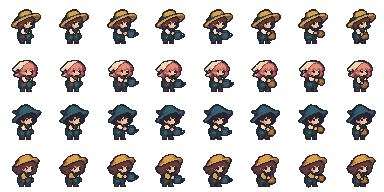
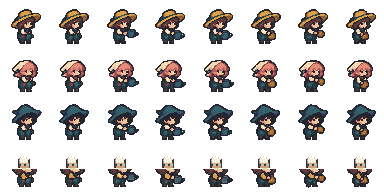
feat: pin plant info and create local photo palette gardeners

diff --git a/web/pet.html b/web/pet.html
@@ -1,4 +1,4 @@
 <!doctype html><html lang="zh-CN"><head><meta charset="UTF-8"><meta http-equiv="Content-Security-Policy" content="default-src 'self'; img-src 'self' data:; script-src 'self'; style-src 'self'"><meta name="viewport" content="width=device-width,initial-scale=1"><title>青云桌面菜园</title><link rel="stylesheet" href="pet.css"><link rel="stylesheet" href="art-v04.css"><link rel="stylesheet" href="pixel-v04.css"></head><body>
-<section id="welcome" hidden data-hit><h2 id="welcome-title">欢迎来到我的菜园</h2><p>把对话变成一片小菜地。</p><p>菜园会读取这台电脑上的 Codex 对话状态和名称。内容留在本机，不上传；收藏也只保存在你的电脑上。</p><p>拖动太阳移动菜园，单击地面走动。双击成熟植物收获并查看对话，悬停可以浇水、施肥。</p><button id="begin">开始种菜</button></section><section id="panel" hidden data-hit><header><canvas id="app-mark" width="24" height="24"></canvas><button id="back" hidden>‹ 返回</button><strong id="panel-title">我的菜园</strong><button id="rename-garden" title="修改菜园名称">改名</button><button id="close" aria-label="收起面板">×</button></header><form id="name-editor" hidden data-hit><label for="garden-name-input">菜园名称</label><input id="garden-name-input" maxlength="48" autocomplete="off" placeholder="我的菜园"><button type="submit">保存</button><button type="button" id="cancel-name">取消</button><small>最多24个字，留空恢复默认名称。</small></form><div id="list-view"><p id="sync" hidden>正在读取本地对话…</p><p id="attention-legend" hidden>蓝点：未读　无点：已读　空心：待确认</p><div id="threads"></div></div><div id="detail-view" hidden><small id="status"></small><h2 id="title"></h2><p id="project" hidden></p><pre id="summary" hidden></pre><div class="actions"><button id="open-thread">查看对话</button><button id="harvest" class="primary">收下这一茬</button></div></div><div id="storage-view" hidden><p id="storage-caption"></p><div id="storage-items"></div></div><div id="settings"><span>园丁</span><div id="heroes"></div><button id="demo" hidden>演示</button><button id="pass" hidden title="全部鼠标穿透；从托盘菜单恢复交互">穿透</button></div><p id="error" role="status"></p></section>
+<section id="welcome" hidden data-hit><h2 id="welcome-title">欢迎来到我的菜园</h2><p>把对话变成一片小菜地。</p><p>菜园会读取这台电脑上的 Codex 对话状态和名称。内容留在本机，不上传；收藏也只保存在你的电脑上。</p><p>拖动太阳移动菜园，单击地面走动。双击成熟植物收获并查看对话，悬停可以浇水、施肥。</p><button id="begin">开始种菜</button></section><section id="panel" hidden data-hit><header><canvas id="app-mark" width="24" height="24"></canvas><button id="back" hidden>‹ 返回</button><strong id="panel-title">我的菜园</strong><button id="rename-garden" title="修改菜园名称">改名</button><button id="close" aria-label="收起面板">×</button></header><form id="name-editor" hidden data-hit><label for="garden-name-input">菜园名称</label><input id="garden-name-input" maxlength="48" autocomplete="off" placeholder="我的菜园"><button type="submit">保存</button><button type="button" id="cancel-name">取消</button><small>最多24个字，留空恢复默认名称。</small></form><div id="list-view"><p id="sync" hidden>正在读取本地对话…</p><p id="attention-legend" hidden>蓝点：未读　无点：已读　空心：待确认</p><div id="threads"></div></div><div id="detail-view" hidden><small id="status"></small><h2 id="title"></h2><p id="project" hidden></p><pre id="summary" hidden></pre><div class="actions"><button id="open-thread">查看对话</button><button id="harvest" class="primary">收下这一茬</button></div></div><div id="storage-view" hidden><p id="storage-caption"></p><div id="storage-items"></div></div><div id="settings"><span>园丁</span><div id="heroes"></div><button id="photo-gardener" title="从照片配色生成园丁，仅在本机处理">照片园丁</button><input id="gardener-photo-file" type="file" accept="image/png,image/jpeg,image/webp" hidden><button id="demo" hidden>演示</button><button id="pass" hidden title="全部鼠标穿透；从托盘菜单恢复交互">穿透</button></div><p id="error" role="status"></p></section>
 <section id="pet"><div id="sun-anchor" data-hit title="按住太阳拖动整个菜园" aria-label="拖动菜园的像素太阳"><canvas id="sun" width="32" height="32"></canvas></div><canvas id="garden" width="210" height="75" aria-label="透明桌面园丁与菜田"></canvas><canvas id="plant-fx" width="420" height="150" aria-hidden="true"></canvas><div id="hero-drag" title="拖动园丁移动桌宠"></div><div id="drag" data-hit title="按住这里拖动桌宠"><canvas id="drag-mark" width="24" height="24"></canvas></div><button id="storage" data-hit title="储物收藏" aria-label="打开储物收藏"><canvas id="chest" width="28" height="28"></canvas></button><div id="capsule" data-hit><canvas id="mini-mark" width="24" height="24" title="按住拖动整个桌面菜园"></canvas><button id="overview" title="查看全部对话"><span id="growing" hidden>0</span>公告 <b id="ripe">0</b></button><button id="prev" aria-label="向左查看连续菜地">‹</button><span id="page">1/1</span><button id="next" aria-label="向右查看连续菜地">›</button><button id="menu" title="打开对话与设置">⋯</button></div><div id="plant-info" hidden data-hit><strong id="info-title"></strong><div id="info-row"><small id="info-status"></small></div></div><div id="care-tools" hidden data-hit aria-label="照料植物"><button id="water" title="浇水"><span aria-hidden="true">◒</span> 浇水</button><button id="feed" title="施肥"><span aria-hidden="true">▣</span> 施肥</button></div><div id="hint" hidden></div><div id="toast" hidden role="status"></div></section>
-<script src="model.js"></script><script src="pet.js"></script></body></html>
+<script src="model.js"></script><script src="photo-gardener.js"></script><script src="pet.js"></script></body></html>

diff --git a/release/site/privacy.html b/release/site/privacy.html
@@ -1,2 +1,2 @@
-<!doctype html><html lang="zh-CN"><meta charset="utf-8"><meta name="viewport" content="width=device-width,initial-scale=1"><title>隐私说明 · 青云桌面菜园</title><style>body{margin:0;background:#25252f;color:#f6eac3;font:17px/1.8 system-ui,sans-serif}main{max-width:840px;margin:auto;padding:64px 24px}nav a{margin-right:24px}a{color:#bdd078}h1{font-size:42px;line-height:1.25}h2{color:#f5c86c}figure{background:#36343a;padding:24px;border:2px solid #706c55;margin:32px 0}img{max-width:100%;image-rendering:pixelated}footer{margin-top:64px;color:#c3ba8b;border-top:2px solid #706c55;padding-top:20px}.tag{color:#bdd078}</style><main><nav><a href="index.html">菜园</a><a href="privacy.html">隐私</a><a href="terms.html">使用条款</a><a href="support.html">帮助</a></nav><h1>你的数据如何使用</h1><p>首次启动会显示说明，点击“开始种菜”后才读取 Codex 对话数据。</p><p>菜园读取本机 Codex 的对话名称、状态、未读标记和本地对话日志，用来呈现植物。当前显示最多24个对话。多身份阅读记录不一致时不会猜测是否未读。菜园不会读取登录凭据，不修改 Codex 数据库，也不上传对话或收藏。点击“查看对话”会交给已安装的 Codex 打开。</p><p>收藏保存在用户目录的 `.codex-garden` 中。每次保存都有恢复副本和最多三份历史备份；无法读取的原文件会保留。托盘菜单可以导出收藏或打开收藏文件夹。导出的备份含对话标识与收获记录，请不要公开分享。</p><p>植物选择、人物选择、首次使用确认和窗口位置保存在本机应用设置中。卸载应用默认保留收藏和设置；如要彻底删除，可退出菜园后手动删除 `.codex-garden` 和 `%APPDATA%\codex-garden-pet-v06`。</p><p>当前内测版没有遥测、广告、云同步或自动下载更新。安装包和升级校验只在本地执行。</p><p>发布者：risu1。插件以本地 stdio 工具运行，不监听网络端口。状态与收藏工具在首次确认前不会读取数据，确认后也只向 Codex 返回状态数量与植物品种数量，不返回对话标题、正文、路径或标识。桌面窗口本身会显示对话名称。
+<!doctype html><html lang="zh-CN"><meta charset="utf-8"><meta name="viewport" content="width=device-width,initial-scale=1"><title>隐私说明 · 青云桌面菜园</title><style>body{margin:0;background:#25252f;color:#f6eac3;font:17px/1.8 system-ui,sans-serif}main{max-width:840px;margin:auto;padding:64px 24px}nav a{margin-right:24px}a{color:#bdd078}h1{font-size:42px;line-height:1.25}h2{color:#f5c86c}figure{background:#36343a;padding:24px;border:2px solid #706c55;margin:32px 0}img{max-width:100%;image-rendering:pixelated}footer{margin-top:64px;color:#c3ba8b;border-top:2px solid #706c55;padding-top:20px}.tag{color:#bdd078}</style><main><nav><a href="index.html">菜园</a><a href="privacy.html">隐私</a><a href="terms.html">使用条款</a><a href="support.html">帮助</a></nav><h1>你的数据如何使用</h1><p>首次启动会显示说明，点击“开始种菜”后才读取 Codex 对话数据。</p><p>菜园读取本机 Codex 的对话名称、状态、未读标记和本地对话日志，用来呈现植物。当前显示最多24个对话。多身份阅读记录不一致时不会猜测是否未读。菜园不会读取登录凭据，不修改 Codex 数据库，也不上传对话或收藏。点击“查看对话”会交给已安装的 Codex 打开。</p><p>收藏保存在用户目录的 `.codex-garden` 中。每次保存都有恢复副本和最多三份历史备份；无法读取的原文件会保留。托盘菜单可以导出收藏或打开收藏文件夹。导出的备份含对话标识与收获记录，请不要公开分享。</p><p>植物选择、人物选择、首次使用确认和窗口位置保存在本机应用设置中。卸载应用默认保留收藏和设置；如要彻底删除，可退出菜园后手动删除 `.codex-garden` 和 `%APPDATA%\codex-garden-pet-v06`。</p><p>当前内测版没有遥测、广告、云同步或自动下载更新。安装包和升级校验只在本地执行。</p><p>发布者：risu1。插件以本地 stdio 工具运行，不监听网络端口。状态与收藏工具在首次确认前不会读取数据，确认后也只向 Codex 返回状态数量与植物品种数量，不返回对话标题、正文、路径或标识。桌面窗口本身会显示对话名称。</p><p>照片园丁：所选照片仅在本机内存中解码和提取配色，不上传、不复制原照片；仅配色参数与选择状态保存在本机应用设置中，可右键照片园丁头像移除。
 </p><footer>青云桌面菜园 · risu1</footer></main></html>

diff --git a/web/photo-gardener.js b/web/photo-gardener.js
@@ -1,0 +1,23 @@
+/* Local photo palette extraction. No network calls or retained source photo. */
+(()=>{
+ let allowed=[];
+ const canvas=(w,h)=>Object.assign(document.createElement('canvas'),{width:w,height:h});
+ function colors(image){
+  const c=canvas(32,32),x=c.getContext('2d');x.drawImage(image,0,0,32,32);const p=x.getImageData(0,0,32,32).data;
+  function sample(x0,y0,x1,y1,fallback){const bins=new Map();for(let y=y0;y<y1;y++)for(let x=x0;x<x1;x++){const i=(y*32+x)*4;if(p[i+3]<128)continue;const v=[p[i],p[i+1],p[i+2]].map(n=>Math.round(n/32)*32).map(n=>Math.min(255,n));const key=v.join(',');bins.set(key,(bins.get(key)||0)+1);}return bins.size?[...bins].sort((a,b)=>b[1]-a[1])[0][0].split(',').map(Number):fallback;}
+  return {hair:sample(10,3,22,10,[75,57,54]),skin:sample(12,11,20,18,[217,157,115]),coat:sample(8,21,24,30,[77,115,135])};
+ }
+ const near=(a,b)=>Math.hypot(...a.map((v,i)=>v-b[i]))<32;
+ function paint(source,palette,portrait=false){
+  const c=canvas(portrait?32:384,portrait?32:48),x=c.getContext('2d');x.imageSmoothingEnabled=false;
+  if(portrait)x.drawImage(source,0,0,32,32,0,0,32,32);else x.drawImage(source,0,0,384,48,0,0,384,48);
+  const im=x.getImageData(0,0,c.width,c.height),p=im.data;
+  for(let i=0;i<p.length;i+=4){if(!p[i+3])continue;const rgb=[p[i],p[i+1],p[i+2]];let target=null,shade=1;
+   if(near(rgb,[217,157,115])||near(rgb,[240,194,149])||near(rgb,[245,215,173])){target=palette.skin;shade=(rgb[0]+rgb[1]+rgb[2])/560;}
+   else if(near(rgb,[77,115,135])||near(rgb,[55,83,106])||near(rgb,[38,55,75])){target=palette.coat;shade=(rgb[0]+rgb[1]+rgb[2])/327;}
+   else if(near(rgb,[155,108,71])||near(rgb,[187,142,92])||near(rgb,[181,123,53])||near(rgb,[220,160,74])){target=palette.hair;shade=(rgb[0]+rgb[1]+rgb[2])/390;}
+   if(target){let out=target.map(v=>Math.max(0,Math.min(255,Math.round(v*shade))));if(allowed.length)out=allowed.reduce((best,c)=>c.reduce((n,v,k)=>n+(v-out[k])**2,0)<best.reduce((n,v,k)=>n+(v-out[k])**2,0)?c:best);for(let k=0;k<3;k++)p[i+k]=out[k];}p[i+3]=255;
+  }x.putImageData(im,0,0);return c;
+ }
+ window.PhotoGardener={colors,paint,setPalette:hex=>{allowed=hex.map(s=>s.replace('#','')).map(s=>[0,2,4].map(i=>parseInt(s.slice(i,i+2),16)));},valid:p=>p&&['skin','hair','coat'].every(k=>Array.isArray(p[k])&&p[k].length===3&&p[k].every(v=>Number.isFinite(v)&&v>=0&&v<=255))};
+})();

diff --git a/tools/redesign_fourth_gardener.py b/tools/redesign_fourth_gardener.py
@@ -1,0 +1,42 @@
+"""Replace the fourth gardener's hat silhouette with white hair and goggles.
+Edits existing pixel atlases only, preserving action registration and watercan.
+"""
+from pathlib import Path
+import json,hashlib,subprocess,io
+from PIL import Image,ImageDraw
+ROOT=Path(__file__).resolve().parents[1]
+def head(cell):
+    box=cell.getbbox()
+    if not box:return cell
+    x0,y0,x1,y1=box
+    # The head is replaced above the torso; hands/tools and feet remain registered.
+    d=ImageDraw.Draw(cell);d.rectangle((x0,y0,x1-1,y0+14),fill=(0,0,0,0))
+    cx=24
+    d.rectangle((cx-6,y0+5,cx+5,y0+13),fill='#36343a')
+    d.rectangle((cx-5,y0+4,cx+3,y0+9),fill='#90879d')
+    d.rectangle((cx-4,y0+4,cx+3,y0+8),fill='#f7f1dc')
+    for x,y in [(-4,3),(-1,2),(2,3),(-5,6),(4,5)]:d.point((cx+x,y0+y),fill='#e3d5a9')
+    d.rectangle((cx-4,y0+9,cx+4,y0+13),fill='#d99d73')
+    d.rectangle((cx-5,y0+10,cx+5,y0+11),fill='#36343a')
+    d.rectangle((cx-3,y0+10,cx-1,y0+11),fill='#b0c9c7');d.rectangle((cx+2,y0+10,cx+4,y0+11),fill='#b0c9c7')
+    d.rectangle((cx-2,y0+14,cx+2,y0+15),fill='#e3d5a9')
+    return cell
+def recolor(cell):
+    colors={'37536a':'686575','4d7387':'90879d','26374b':'36343a','35553b':'6b393d','4c6f3e':'93464a','6a8b48':'ae7683'}
+    p=cell.load()
+    for y in range(cell.height):
+        for x in range(cell.width):
+            r,g,b,a=p[x,y];key=f'{r:02x}{g:02x}{b:02x}'
+            if a and key in colors:p[x,y]=(*bytes.fromhex(colors[key]),a)
+    return cell
+def main():
+    path=ROOT/'assets/pixel-v091/actions.png';im=Image.open(io.BytesIO(subprocess.check_output(['git','show','ec0ab98:assets/pixel-v091/actions.png'],cwd=ROOT))).convert('RGBA')
+    for col in range(8):
+        cell=im.crop((col*48,144,col*48+48,192));im.paste(head(recolor(cell)),(col*48,144))
+    im.save(path)
+    mpath=path.with_name('manifest.json');m=json.loads(mpath.read_text());m['sha256']=hashlib.sha256(path.read_bytes()).hexdigest();m['fourthGardener']='white hair, goggles, plum workwear; existing action alignment preserved';mpath.write_text(json.dumps(m,ensure_ascii=False,indent=2),encoding='utf-8')
+    mpath=ROOT/'assets/pixel-v04/manifest.json';m=json.loads(mpath.read_text(encoding='utf-8'));m['heroes'][3]['name']='白发工匠';mpath.write_text(json.dumps(m,ensure_ascii=False,indent=2),encoding='utf-8')
+    portraits=Image.open(ROOT/'assets/pixel-v04/portraits.png').convert('RGBA');frame=im.crop((96,144,144,192));frame=frame.resize((32,32),Image.Resampling.NEAREST);portraits.paste(frame,(96,0));portraits.save(ROOT/'assets/pixel-v04/portraits.png')
+    m['sourceSha256']['portraits']=hashlib.sha256((ROOT/'assets/pixel-v04/portraits.png').read_bytes()).hexdigest()
+    mpath.write_text(json.dumps(m,ensure_ascii=False,indent=2),encoding='utf-8')
+if __name__=='__main__':main()

diff --git a/tools/release_gate.py b/tools/release_gate.py
@@ -39,7 +39,7 @@ audit=json.loads((ROOT/'verification/rc010-npm-audit.json').read_text(encoding='
 check('npmAudit',audit.get('metadata',{}).get('vulnerabilities',{}).get('total')==0,'当前依赖审计')
 audit=json.loads((ROOT/'verification/rc010-python-audit.json').read_text(encoding='utf-8'))
 check('pythonAudit',all(not d.get('vulns') for d in audit.get('dependencies',[])) and len(audit.get('dependencies',[]))==30,'固定的30项 MCP 依赖审计')
-for name in ('rc2-dpi-1-garden-qa','rc2-welcome-qa','install-'+VERSION+'-lifecycle','mcp-'+VERSION+'-qa','rc2-dpi-1.25-garden-qa','rc2-dpi-1.5-garden-qa','rc2-dpi-2-garden-qa'):
+for name in ('rc5-dpi-1-garden-qa','rc5-welcome-qa','install-'+VERSION+'-lifecycle','mcp-'+VERSION+'-qa','rc5-final-garden-qa','rc5-dpi-2-garden-qa'):
     path=ROOT/f'verification/{name}.json'
     check(name,path.is_file() and json.loads(path.read_text(encoding='utf-8-sig')).get('passed') is True,'本轮实际自动化报告')
 check('externalWindowsValidation',False,'待干净 Windows、多显示器、休眠恢复与长时间试用实测')

diff --git a/tools/package.py b/tools/package.py
@@ -22,7 +22,7 @@ def build():
     shutil.copytree(ROOT/'assets/pixel-v07',app/'assets/pixel-v07')
     shutil.copytree(ROOT/'assets/pixel-v091',app/'assets/pixel-v091')
     (app/'web').mkdir(exist_ok=True)
-    for name in ('pet.html','pet.js','pet.css','art-v04.css','pixel-v04.css','model.js'):
+    for name in ('pet.html','photo-gardener.js','pet.js','pet.css','art-v04.css','pixel-v04.css','model.js'):
         shutil.copy2(ROOT/'web'/name,app/'web'/name)
     for name in ('Install.ps1','Uninstall.ps1','Install.cmd'):
         shutil.copy2(ROOT/'tools'/name,staging/name)

diff --git a/README.md b/README.md
@@ -4,15 +4,15 @@
 
 透明的像素菜园静静待在桌面，不抢键盘输入。单击让园丁走近，双击回到对话；工作间隙，也可以浇水、施肥，照料自己的小菜地。
 
-[下载 Windows 候选版](https://github.com/l1jiewansui/codex-garden/releases/tag/v0.10.0-rc.3) · [安装部署手册](docs/INSTALL.md) · [使用指南](docs/USAGE.md) · [问题反馈](https://github.com/l1jiewansui/codex-garden/issues)
+[下载 Windows 候选版](https://github.com/l1jiewansui/codex-garden/releases/tag/v0.10.0-rc.5) · [安装部署手册](docs/INSTALL.md) · [使用指南](docs/USAGE.md) · [问题反馈](https://github.com/l1jiewansui/codex-garden/issues)
 
 ![桌面菜园：像素太阳、园丁、连续菜地、公告栏和收藏箱。演示数据，不含真实对话。](docs/screenshots/garden.png)
 
-> 截图使用演示数据。当前支持 **Windows x64 + Codex 桌面版**；下载包自带运行环境，无需安装 Python 或 Node.js。当前为 **0.10.0-rc.3 候选版**，尚未代码签名或通过公共插件目录审核。
+> 截图使用演示数据。当前支持 **Windows x64 + Codex 桌面版**；下载包自带运行环境，无需安装 Python 或 Node.js。当前为 **0.10.0-rc.5 候选版**，尚未代码签名或通过公共插件目录审核。
 
 ## 三步开始种菜
 
-1. **下载并解压**：在 [Release 页面](https://github.com/l1jiewansui/codex-garden/releases/tag/v0.10.0-rc.3) 下载 `codex-garden-0.10.0-rc.3-windows.zip`，右键选择“全部解压”，不要直接在压缩包里运行。
+1. **下载并解压**：在 [Release 页面](https://github.com/l1jiewansui/codex-garden/releases/tag/v0.10.0-rc.5) 下载 `codex-garden-0.10.0-rc.5-windows.zip`，右键选择“全部解压”，不要直接在压缩包里运行。
 2. **打开菜园**：进入解压后的文件夹，双击 `CodexGarden.exe`。想加入开始菜单，也可以双击 `Install.cmd`，无需管理员权限。
 3. **点击“开始种菜”**：阅读首次说明后确认。打开本机 Codex，稍等几秒，对话就会按置顶顺序出现在菜地上。
 
@@ -81,3 +81,11 @@ Star 数量每日更新，历史从 2026 年 10 月 15 日开始记录。
 ---
 
 [安装部署](docs/INSTALL.md) · [使用指南](docs/USAGE.md) · [隐私说明](PRIVACY.md) · [反馈问题](https://github.com/l1jiewansui/codex-garden/issues) · [开发者文档](docs/DEVELOPMENT.md)
+
+## 固定植物信息与照片园丁
+
+单击植物可固定信息卡，再点同一株关闭，点击其他植物切换。鼠标移开不会关闭固定的信息卡；双击仍然收获并打开对话。翻页或打开公告面板会收起信息卡。
+
+打开公告面板，点击 **照片园丁**，选择10MB以内的 PNG、JPEG 或 WebP 照片。照片在本机提取配色，生成像素园丁，支持行走、浇水和施肥。建议使用人物居中的正面半身照。此功能是照片配色定制，不是人脸还原或 AI 生图。
+
+原照片不会上传或保存到菜园目录，只保留配色参数。点击默认园丁可以切回；右键照片园丁头像可移除。第四位默认园丁已改为白发、护目镜和紫色工作服的工匠形象。

diff --git a/release/RELEASE-RUNBOOK.md b/release/RELEASE-RUNBOOK.md
@@ -1,6 +1,6 @@
 # 发布操作手册
 
-发布者为 risu1。当前版本 0.10.0-rc.3，目标平台 Windows x64。候选包可本地验证，公共发布必须通过全部门槛。
+发布者为 risu1。当前版本 0.10.0-rc.5，目标平台 Windows x64。候选包可本地验证，公共发布必须通过全部门槛。
 
 ## 可重复构建
 
@@ -21,12 +21,12 @@ python tools/release_metadata.py
 python tools/package.py
 python tools/prepare_listing_assets.py
 python tools/validate_plugin.py
-powershell -NoProfile -ExecutionPolicy Bypass -File tools/test_install.ps1 -PackagePath "$PWD/dist/desktop-pet-0.10.0-rc.3"
+powershell -NoProfile -ExecutionPolicy Bypass -File tools/test_install.ps1 -PackagePath "$PWD/dist/desktop-pet-0.10.0-rc.5"
 python tools/archive_release.py
 python tools/build_plugin.py
 ```
 
-验证 MCP 时将 .work/mcp-deps 加入 PYTHONPATH，运行 tools/test_mcp.py。验证桌面时运行 dist/desktop-pet-0.10.0-rc.3/CodexGarden.exe --qa；首次说明单独加 --qa-welcome。QA 写入包内 resources/app/verification，发布归档前重新打包。
+验证 MCP 时将 .work/mcp-deps 加入 PYTHONPATH，运行 tools/test_mcp.py。验证桌面时运行 dist/desktop-pet-0.10.0-rc.5/CodexGarden.exe --qa；首次说明单独加 --qa-welcome。QA 写入包内 resources/app/verification，发布归档前重新打包。
 
 完整插件内同时包含桌面程序与本地 MCP；不使用 lifecycle hooks。stdio 服务只暴露三个无参数工具。不得加入任意命令、任意路径读取、代收获或改写 Codex 的工具。
 

diff --git a/docs/INSTALL.md b/docs/INSTALL.md
@@ -12,12 +12,12 @@
 
 ## 选择下载内容
 
-打开 [0.10.0-rc.3 下载页面](https://github.com/l1jiewansui/codex-garden/releases/tag/v0.10.0-rc.3)，展开 **Assets**：
+打开 [0.10.0-rc.5 下载页面](https://github.com/l1jiewansui/codex-garden/releases/tag/v0.10.0-rc.5)，展开 **Assets**：
 
 | 文件 | 适合谁 |
 |---|---|
-| `codex-garden-0.10.0-rc.3-windows.zip` | 大多数用户：直接使用桌面菜园 |
-| `codex-garden-0.10.0-rc.3-plugin.zip` | 希望从 Codex 对话里调用菜园工具的用户，包含同一桌面程序 |
+| `codex-garden-0.10.0-rc.5-windows.zip` | 大多数用户：直接使用桌面菜园 |
+| `codex-garden-0.10.0-rc.5-plugin.zip` | 希望从 Codex 对话里调用菜园工具的用户，包含同一桌面程序 |
 | 同名 `.zip.sha256` | 对照下载文件的完整性 |
 | GitHub 自动生成的 Source code | 源代码，不是可以双击使用的安装包 |
 
@@ -93,7 +93,7 @@ codex plugin add qingyun-garden@risu1-local-plugins
 同时下载 ZIP 与同名 `.sha256` 文件。在 ZIP 所在文件夹打开 PowerShell：
 
 ```powershell
-Get-FileHash .\codex-garden-0.10.0-rc.3-windows.zip -Algorithm SHA256
+Get-FileHash .\codex-garden-0.10.0-rc.5-windows.zip -Algorithm SHA256
 ```
 
 将输出的哈希与 `.sha256` 文件中的哈希对照，应完全一致；大小写不影响比较。SHA256 用于核对文件完整性，不等同于发布者数字签名。

diff --git a/release/PLUGIN-INSTALL.md b/release/PLUGIN-INSTALL.md
@@ -4,7 +4,7 @@
 
 将整个插件目录放在固定位置，然后在支持本地插件的 Codex 开发环境中加载根目录的 plugin.json。不要只复制清单：app、server、skills 都是必要文件。不同 Codex 版本的本地插件入口可能不同，请遵循该版本的开发者说明。
 
-本开发工作区的 .agents/plugins/marketplace.json 已登记本地来源，名称“青云桌面菜园”，市场名称“risu1 本地插件”。本机已通过 Codex CLI 安装并启用 0.10.0-rc.3；桌面插件界面的安装显示和新对话调用仍需验收。当前聊天不会自动刷新工具列表，可在宿主重新加载插件后验证。
+本开发工作区的 .agents/plugins/marketplace.json 已登记本地来源，名称“青云桌面菜园”，市场名称“risu1 本地插件”。本机已通过 Codex CLI 安装并启用 0.10.0-rc.5；桌面插件界面的安装显示和新对话调用仍需验收。当前聊天不会自动刷新工具列表，可在宿主重新加载插件后验证。
 
 其他 Windows 开发机可把 marketplace.json 与完整插件目录放入自己的本地市场根目录，按其实际位置调整 source.path，然后使用 `codex plugin marketplace add <市场根目录>` 和 `codex plugin add qingyun-garden@risu1-local-plugins --json` 安装。只登记市场不会自动开启插件。
 

diff --git a/README-PET.md b/README-PET.md
@@ -37,3 +37,11 @@
 本机已进行不同缩放下的自动交互验证，仍需更多电脑、多屏和长时间运行验证。安装包尚未进行代码签名；没有自动联网更新，也尚未上架公共 Codex 插件目录。发布者 risu1，请从你信任的发布方获取文件。
 
 数据用途见应用目录中的 PRIVACY.md。
+
+## 固定植物信息与照片园丁
+
+单击植物可固定信息卡，再点同一株关闭，点击其他植物切换。鼠标移开不会关闭固定的信息卡；双击仍然收获并打开对话。翻页或打开公告面板会收起信息卡。
+
+打开公告面板，点击 **照片园丁**，选择10MB以内的 PNG、JPEG 或 WebP 照片。照片在本机提取配色，生成像素园丁，支持行走、浇水和施肥。建议使用人物居中的正面半身照。此功能是照片配色定制，不是人脸还原或 AI 生图。
+
+原照片不会上传或保存到菜园目录，只保留配色参数。点击默认园丁可以切回；右键照片园丁头像可移除。第四位默认园丁已改为白发、护目镜和紫色工作服的工匠形象。
